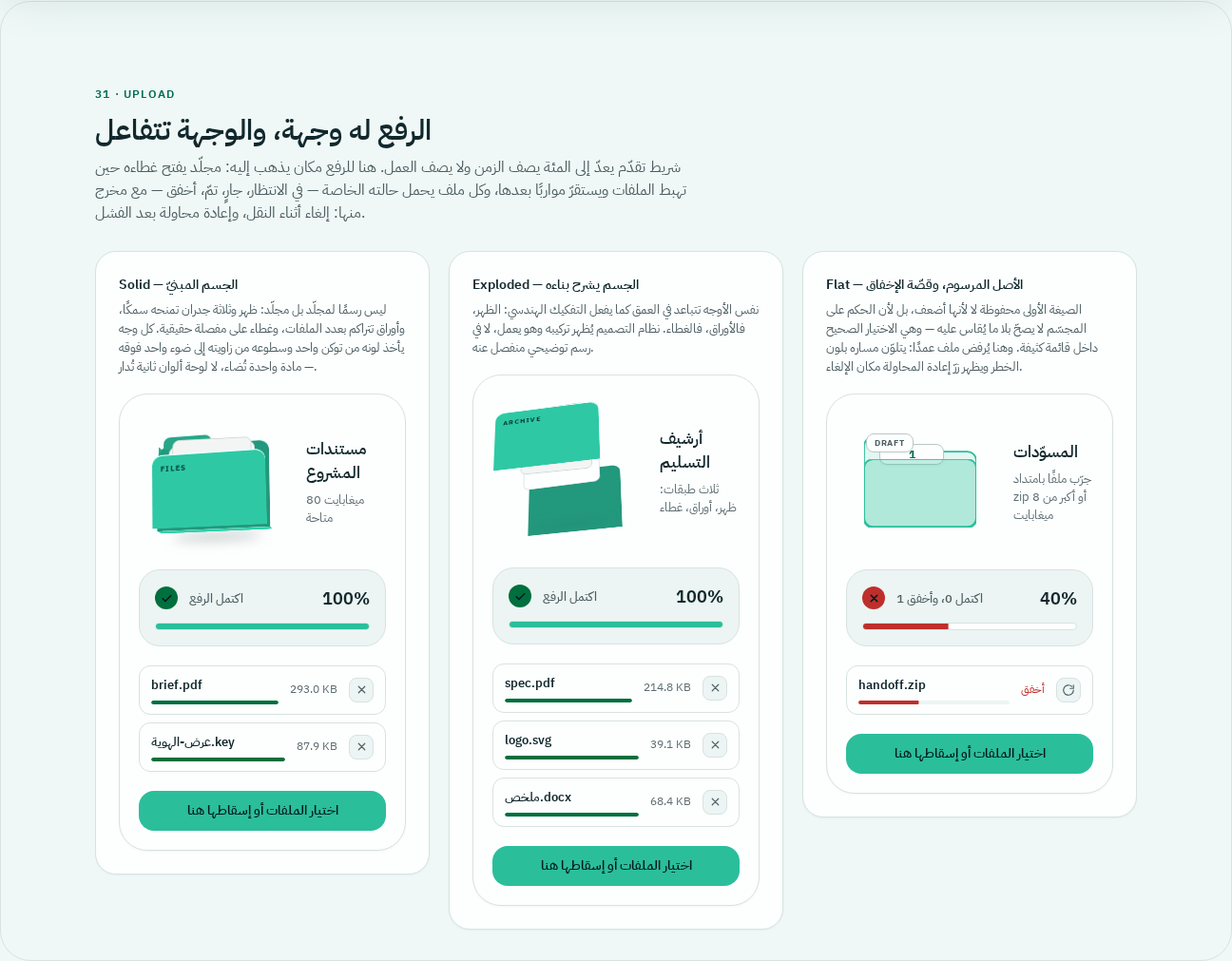
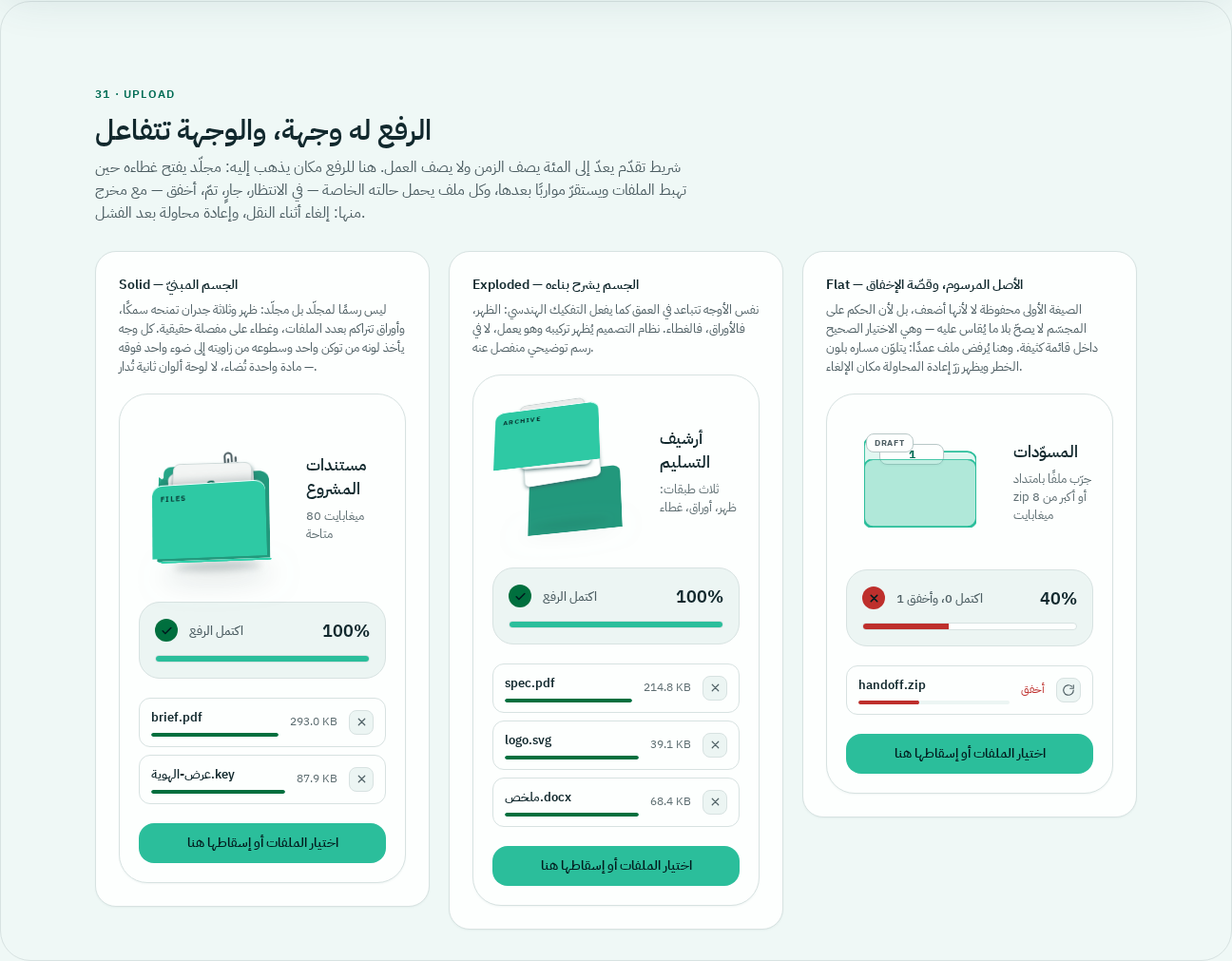
Make visual composition a law, and build the folder to it
The owner supplied twelve references as a visual feed and asked that creativity
and the refusal of slop stop being a mood and become a standing rule.

The feed is not uniform, and reading it is the first part of the law. The travel
journal — photographs sitting in a folder pocket, a paperclip, a stamp, a note —
is the strongest reference in the set: every element is an object with an edge,
a thickness and a shadow in a placed position, and every detail carries
information rather than decorating. The 3D objects contribute a principle rather
than a style. But two of the twelve are the flat corporate illustration family
and a pack of pastel icon tiles, and both are patterns this repository already
scans for and removes. They are named as refused in the law, because a refusal
that isn't written down reads later as an oversight.

The rule that turned out to matter most is one the references cannot teach,
because none of them mirror: their light comes from the upper left and their
shadows fall to the lower right. Nova mirrors with `dir`, and a lateral light
inverts with the object — so the light would come from the right in Arabic and
the left in English. Light is physical, not linguistic. The law therefore puts
the source directly overhead and forbids lateral light in anything that mirrors;
the folder's two side walls carry the same value, and a gate holds them there.

Applied to UploadFolder as the reference implementation:
[…]

Changed region(s): [[0.0926, 0.4293, 0.3395, 0.9199], [0.2469, 0.4599, 0.3086, 0.5519], [0.4321, 0.4599, 0.4938, 0.5213]]

diff --git a/src/madar/components/upload.tsx b/src/madar/components/upload.tsx
@@ -85,8 +85,12 @@ const LID_H = 84;
 const TAB_W = 58;
 const TAB_H = 15;
 
-/* Face brightness is the lighting model: one light, above and slightly behind
-   the camera. The numbers are angles turned into values, not decoration. */
+/* Face brightness is the lighting model, and its direction is a constraint
+   rather than a taste: the light sits *directly above* the object, tilted only
+   toward the camera. Any lateral light would invert when the object mirrors
+   for RTL, and light is physical, not linguistic — it must not follow the
+   reading direction. See design-system/VISUAL-LAW.md §2. The two side walls
+   therefore carry the same value; nothing here is brighter on one side. */
 const LIGHT = {
   back: 0.80,
   tab: 0.88,
@@ -115,14 +119,49 @@ function Face({
   );
 }
 
+/* Unequal by hand, not by loop: three identical angles read as a `for`, three
+   different ones read as someone having put them there. VISUAL-LAW.md §4. */
+const SLIP_TILT = [-3.5, 2.1, -1.2];
+
+/* One paperclip drawn twice: the back copy is clipped to the length that
+   passes behind the leaf, the front copy to the length that passes over it.
+   Their different translateZ does the occluding, so the wire genuinely goes
+   over and under rather than being painted to look as though it does. */
+function Clip({ z, lift, half }: { z: number; lift: number; half: 'front' | 'back' }) {
+  return (
+    <div
+      data-folder-part={`clip-${half}`}
+      className="madar-folder-face"
+      style={{
+        insetInlineStart: W - 56, top: H - LID_H - 16,
+        width: 30, height: 46, background: 'transparent',
+        color: 'var(--text-2)',
+        clipPath: half === 'back' ? 'inset(38% 0 0 0)' : 'inset(0 0 62% 0)',
+        transform: `translateZ(${z}px) translateY(${-lift}px) rotateZ(${SLIP_TILT[0]}deg)`,
+      }}
+    >
+      <svg viewBox="0 0 26 40" width="30" height="46" fill="none" aria-hidden="true">
+        <path
+          d="M18 11v18a5.5 5.5 0 0 1-11 0V9a3.5 3.5 0 0 1 7 0v19a1.8 1.8 0 0 1-3.6 0V12"
+          stroke="currentColor"
+          strokeWidth="2"
+          strokeLinecap="round"
+        />
+      </svg>
+    </div>
+  );
+}
+
 function Folder({
-  open, count, label, variant, tilt,
+  open, count, label, variant, tilt, filed,
 }: {
   open: number;
   count: number;
   label: string;
   variant: FolderVariant;
   tilt: { x: number; y: number };
+  /** True once every transfer has settled — the clip is a state, not a trim. */
+  filed: boolean;
 }) {
   if (variant === 'flat') return <FlatFolder open={open} count={count} label={label} />;
 
@@ -137,23 +176,37 @@ function Folder({
     <div
       aria-hidden="true"
       className="madar-folder-stage"
-      style={{ width: W + 24, height: H + (spread ? 62 : 44), flex: 'none' }}
+      style={{ width: W + 24, height: H + (spread ? 62 : 78), flex: 'none' }}
     >
       <div className="madar-folder-mirror">
         <div
           className="madar-folder-scene"
           style={{
-            width: W, height: H, margin: `${spread ? 40 : 26}px auto 0`,
+            width: W, height: H, margin: `${spread ? 40 : 58}px auto 0`,
             transform: `rotateX(${camX}deg) rotateY(${camY}deg) scale(${spread ? 0.78 : 0.92})`,
           }}
         >
-          {/* the object's weight on the surface below it */}
+          {/* Two of the three shadows the law asks for. Contact is tight and
+              dark where the object meets the surface and gives it weight; cast
+              is wider, softer and lower and gives it height. Both fall straight
+              down, because the light is straight above. VISUAL-LAW.md §3. */}
           <div
+            data-folder-part="cast-shadow"
             className="madar-folder-contact"
             style={{
-              insetInlineStart: 16, top: H + 1, width: W - 32, height: 10,
-              filter: 'blur(7px)',
-              opacity: spread ? 0.08 : 0.24,
+              insetInlineStart: 4, top: H + 6, width: W - 8, height: 18,
+              filter: 'blur(14px)',
+              opacity: spread ? 0.05 : 0.13,
+              transform: `translateZ(-${D}px) scaleX(${1 + open * 0.16})`,
+            }}
+          />
+          <div
+            data-folder-part="contact-shadow"
+            className="madar-folder-contact"
+            style={{
+              insetInlineStart: 16, top: H + 1, width: W - 32, height: 8,
+              filter: 'blur(5px)',
+              opacity: spread ? 0.08 : 0.3,
               transform: `translateZ(-${D}px) scaleX(${1 + open * 0.1})`,
             }}
           />
@@ -238,9 +291,11 @@ function Folder({
                 background: 'var(--surface)',
                 border: '1px solid var(--border)',
                 borderRadius: 'var(--r-xs)',
-                boxShadow: 'var(--shadow-1)',
+                // cast straight down: the light is overhead, so a leaf drops its
+                // shadow onto the leaf behind it, not off to one side
+                boxShadow: '0 3px 6px -2px var(--shadow-color)',
                 filter: `brightness(${1 - i * 0.04})`,
-                transform: `translateZ(${5 + i * 3 + spread * (22 + i * 18)}px) translateY(${-open * (34 + i * 13)}px) rotateZ(${(i % 2 ? 1 : -1) * 1.1}deg)`,
+                transform: `translateZ(${5 + i * 3 + spread * (22 + i * 18)}px) translateY(${-open * (48 + i * 15)}px) rotateZ(${SLIP_TILT[i]}deg)`,
               }}
             />
           ))}
@@ -252,14 +307,46 @@ function Folder({
               style={{
                 insetInlineStart: 15 + (sheets - 1) * 4, top: H - LID_H,
                 width: W - 30 - (sheets - 1) * 8, height: LID_H - 6,
-                background: 'transparent', display: 'grid', placeItems: 'center',
-                transform: `translateZ(${6 + (sheets - 1) * 3 + spread * (22 + (sheets - 1) * 18)}px) translateY(${-open * (34 + (sheets - 1) * 13)}px)`,
-                fontSize: 19, fontWeight: 700, color: 'var(--accent-ink)',
+                background: 'transparent',
+                display: 'grid', justifyItems: 'center', alignItems: 'start',
+                paddingBlockStart: 13,
+                transform: `translateZ(${6 + (sheets - 1) * 3 + spread * (22 + (sheets - 1) * 18)}px) translateY(${-open * (48 + (sheets - 1) * 15)}px) rotateZ(${SLIP_TILT[Math.max(0, sheets - 1)]}deg)`,
+                fontSize: 20, fontWeight: 700, color: 'var(--accent-ink)',
                 fontVariantNumeric: 'tabular-nums',
               }}
             >
               {count}
             </div>
+          )}
+
+          {/* The third shadow: the lid is in front and overhead light does not
+              reach behind it, so the leaves darken where they enter the pocket.
+              This is the joint, and the joint is where objects stop being
+              stickers. VISUAL-LAW.md §3, §5. */}
+          {sheets > 0 && spread === 0 && (
+            <div
+              data-folder-part="occlusion"
+              className="madar-folder-contact"
+              style={{
+                insetInlineStart: 12, top: H - LID_H - 4, width: W - 24, height: 14,
+                borderRadius: 0,
+                filter: 'blur(6px)',
+                opacity: 0.26,
+                transform: `translateZ(${D - 2}px)`,
+              }}
+            />
+          )}
+
+          {/* Filed: the clip appears only once every transfer has settled, so it
+              reports a state rather than trimming the object. Its wire crosses
+              in front of the top leaf and disappears behind it, which is the
+              detail that makes a drawn object read as a real one.
+              VISUAL-LAW.md §5, §8. */}
+          {filed && sheets > 0 && spread === 0 && (
+            <>
+              <Clip z={5 + (sheets - 1) * 3 - 2} lift={open * (48 + (sheets - 1) * 15)} half="back" />
+              <Clip z={5 + (sheets - 1) * 3 + 4} lift={open * (48 + (sheets - 1) * 15)} half="front" />
+            </>
           )}
 
           {/* the lid — hinged at the bottom edge, its angle is the state */}
@@ -575,7 +662,7 @@ export function UploadFolder({
       }}
     >
       <div style={{ display: 'flex', alignItems: 'center', gap: 'var(--sp-5)' }}>
-        <Folder open={lid} count={items.length} label={tabLabel} variant={variant} tilt={tilt} />
+        <Folder open={lid} count={items.length} label={tabLabel} variant={variant} tilt={tilt} filed={!active && !failed && items.length > 0} />
         <div style={{ minWidth: 0 }}>
           <h3 style={{ margin: 0, fontSize: 17, fontWeight: 600, color: 'var(--text)' }}>{title}</h3>
           <p style={{ margin: '6px 0 0', fontSize: 13, color: 'var(--text-3)' }}>{meta}</p>

diff --git a/design-system/VISUAL-LAW.md b/design-system/VISUAL-LAW.md
@@ -1,0 +1,94 @@
+# قانون التكوين البصري في NOVA
+
+هذا الملف قانون، لا اقتراح. كل مجسّم أو أيقونة أو بطاقة تُبنى بعد اليوم تُقاس عليه، وبواباته تُشغَّل مع كل تمريدة (`gates/07-visual-law.md`).
+
+مصدره تغذية بصرية قدّمها مالك المشروع: بورتفوليو Behance، وتطبيق «Daily travel journal»، ومجموعة مجسّمات ثلاثية الأبعاد، ورسوم قطاع الطاقة، وحزمة أيقونات. **ليست كلها صالحة**، والفرز جزء من القانون لا مقدّمة له.
+
+---
+
+## أوّلًا: الفرز — ماذا أخذنا من التغذية، وماذا رفضنا منها
+
+| المرجع | الحكم | السبب |
+|---|---|---|
+| **تطبيق يوميات السفر**: صور في جيب مجلّد، مشبك ورق، ملاحظة لاصقة، طوابع، أعلام | **المرجع الأوّل والأقوى** | كل عنصر فيه **جسم** له حافة وسمك وظلّ في موضعه. والتفاصيل تحمل معلومة: العلم بلد، والملاحظة تعليق المستخدم، والصور محتوى حقيقي |
+| **المجسّمات ثلاثية الأبعاد** (الصاعقة، اللوح الشمسي، البيت) | **مأخوذ في المبدأ لا في الأسلوب** | المبدأ: ضوء واحد، وظلّ مصبوب في اتجاه معلن، وسمك حقيقي. الأسلوب البلاستيكي اللامع يصلح لجسم بطل، ولا يصلح لضابط في واجهة |
+| **بورتفوليو Behance**: بطاقات الخدمات بهيئة مجلّد، خطّ زمني للخبرة | **مأخوذ** — فكرة أن الحاوية تحمل شكل ما تحويه | البطاقة على هيئة مجلّد تقول «هذا ملف» قبل أن يُقرأ عنوانها |
+| **الرندر التقني** (المحوّل بشبكته السلكية) | **مأخوذ للتفكيك فقط** | إظهار البنية فوق الجسم لغة صالحة في نظام تصميم، وقد استُعملت في صيغة `exploded` |
+| **رسوم القطاع المسطّحة** (عدّاد الكهرباء، الشخصية بالقابس) | **مرفوض** | هذه عائلة الرسم الشركاتي المسطّح: بلا سمك، وبلا ظلّ، وبلا زاوية. وهي أحد أوضح تلال الـslop |
+| **حزمة الأيقونات الخمسين**: أقراص باستيلية بتدرّج لكل أيقونة | **مرفوض** | «بلاطات الأيقونات الباستيلية» بند مفهرس في ماسح الـslop عندنا. لونٌ عشوائي لكل أيقونة يقول إن اللون بلا معنى |
+
+**القاعدة المستخلصة من الفرز نفسه:** التغذية البصرية تُقرأ، ولا تُقلَّد. المرجع الذي فيه جسم يُؤخذ، والمرجع الذي فيه شكل مسطّح يُرفض ولو جاء في الحزمة نفسها.
+
+---
+
+## ثانيًا: القانون
+
+### 1. الجسم قبل الشكل
+
+كل عنصر بصري **جسم له حجم**، لا مستطيل ملوّن. الحدّ الأدنى: سمك مرئي، أو حافة تلتقط الضوء، أو تراكب يُظهر أن شيئًا أمام شيء. المستطيل الذي لا يقول أين سطحه وأين حرفه ليس تصميمًا بل حشوًا.
+
+### 2. الضوء من فوق مباشرةً — وهذه ليست ذائقة بل ضرورة
+
+في المراجع يأتي الضوء من أعلى اليسار وتسقط الظلال إلى أسفل اليمين. **لا يصحّ ذلك عندنا.**
+
+نوفا عربية أوّلًا وتنقلب مع `dir`. أي جسم يُعكس بـ`scaleX(-1)` **تنعكس معه إضاءته**، فيصبح الضوء في العربية من اليمين وفي الإنجليزية من اليسار — والضوء ظاهرة فيزيائية لا لغوية، فانقلابه مع لغة الواجهة خطأ لا أسلوب.
+
+> **القانون: مصدر الضوء فوق الجسم مباشرةً، ومائل قليلًا نحو الكاميرا. الظلال تسقط إلى الأسفل. أي إضاءة جانبية ممنوعة في أي مكوّن يُعكس مع الاتجاه.**
+
+### 3. ثلاثة ظلال مختلفة، ولكل واحد وظيفة
+
+الخلط بينها هو ما يجعل الأجسام تبدو ملصقات:
+
+| الظلّ | أين | كيف |
+|---|---|---|
+| **ظلّ التلامُس** | حيث يلمس الجسم السطح | ضيّق، قاتم، قصير الانتشار. يعطي الوزن |
+| **الظلّ المصبوب** | أسفل الجسم في اتجاه الضوء | أطول وأنعم وأخفّ. يعطي الارتفاع |
+| **الانحجاب المحيطي** | في الشقوق والفواصل والملتقيات | خطّ رفيع داكن عند فم الجيب وبين الورقة والورقة. يعطي العمق |
+
+جسم بظلّ واحد ناعم تحته = ملصق. الثلاثة معًا = جسم.
+
+### 4. الزاوية قرار، والحاوية مستقيمة
+
+في المرجع الأقوى كل صورة داخل الجيب مائلة بقدر مختلف، بينما **الجيب نفسه مستقيم**. الميلان يخصّ المحتوى لأنه وُضع باليد؛ والإطار يبقى معياريًّا لأنه بنية. عكسُ ذلك — إطار مائل ومحتوى مستقيم — هو الشكل الأشيع للزينة بلا معنى.
+
+ولا زاويتان متساويتان: `-3.5°`, `+2°`, `-1°` تقرأ كيدٍ وضعتها؛ `2°, 2°, 2°` تقرأ كحلقة `for`.
+
+### 5. التفصيل يعيش عند الحافة والمَفصِل
+
+ما يجعل مرجع يوميات السفر مقنعًا ليس مركز العناصر بل أطرافها: القصّ الأبيض حول الملصق، وسلك المشبك يمرّ فوق الورقة ثم تحتها، وشفة الجيب. **الحافة هي التفصيل**، والمركز يحتمل الفراغ.
+
+### 6. اللون يأتي من المحتوى لا من الخلفية
+
+الأرضية في المراجع محايدة قريبة من الأبيض، وكل اللون في الصور والأعلام والملاحظة الصفراء. هذا يقلب القاعدة الشائعة: **الخلفية لا تُلوَّن لتبدو حيّة، بل تُحيَّد ليظهر المحتوى.**
+
+في نوفا هذا مطابق للقرار القائم: `--nova-canvas` لوحة مسطّحة واحدة، واللون من `--accent` والحالة والمحتوى.
+
+### 7. التكوين مكتمل: لا شيء يطفو وحده
+
+الأجسام تتراكب وتحجب بعضها وتنتمي إلى ترتيب عمق. عنصر واحد معلّق في مركز فراغه المتساوي من كل جهة ليس تكوينًا. ثلاثة أجسام في ثلاثة مستويات عمق تكوين.
+
+### 8. التفصيل مقيَّد بالمعنى
+
+كل تفصيل يُضاف يجيب: **أي معلومة يحمل؟** مشبك الورق في يوميات السفر يقول «مُرفَق». في مجلّد الرفع لا يظهر المشبك إلا حين يكتمل الرفع، فيقول «حُفِظ». مشبك يظهر دائمًا زخرفة، ومشبك يظهر عند حالة معيّنة لغة.
+
+هذا هو الفرق الذي يفصل هذا القانون عن «أضف تفاصيل أكثر»: **التفصيل بلا حالة زينة، والزينة سلوب مهما كان متقنًا.**
+
+---
+
+## ثالثًا: ما يظلّ ممنوعًا مهما بدا جميلًا
+
+- تدرّجات كخلفية جوّية (المجموعة 06)
+- نصّ بتدرّج مقصوص (02)
+- بلاطات أيقونات باستيلية، لون لكل أيقونة بلا معنى (25)
+- زجاج كافتراض لا كقرار (19)
+- ظلّ ضخم بلا مصدر ضوء يبرّره (20)
+- رسم مسطّح بلا سمك ولا ظلّ ولا زاوية — وهو ما رُفض من التغذية نفسها
+- أي حلقة حركة لانهائية على مكوّن منتج (26 و«الطفو الدائم»)
+
+---
+
+## رابعًا: التطبيق المرجعي
+
+`UploadFolder` في `src/madar/components/upload.tsx` هو المثال المطبَّق: جسم بسمك حقيقي، وضوء من فوق مباشرةً، وثلاثة ظلال بوظائف مختلفة، وقصاصات مائلة بزوايا غير متساوية داخل جيب مستقيم، ومشبك لا يظهر إلا عند الاكتمال.
+
+البوابات في `gates/07-visual-law.md` تُشغَّل على القانون نفسه لا على الوصف.

diff --git a/gates/07-visual-law.md b/gates/07-visual-law.md
@@ -1,0 +1,54 @@
+# Gates: the visual composition law
+
+The owner supplied twelve references as a visual feed and asked that creativity
+and the refusal of slop become a standing law rather than a mood. The feed is
+not uniform: some of it is objects with volume, angle and placed shadow, and
+some of it is exactly the flat corporate illustration and pastel icon-tile
+families this repository already scans for. Reading the feed is part of the law,
+so these gates cover both the written rule and its reference implementation in
+`UploadFolder`.
+
+- [x] G1: The law is written down, including the part where references were rejected
+  CHECK: node -e "const d=require('fs').readFileSync('design-system/VISUAL-LAW.md','utf8');const need=['الجسم قبل الشكل','ظلّ التلامُس','الظلّ المصبوب','الانحجاب المحيطي','الزاوية قرار','مرفوض'];const miss=need.filter(n=>!d.includes(n));console.log(miss.length?'LAW_INCOMPLETE '+miss.join(','):'LAW_WRITTEN')"
+  EXPECT: LAW_WRITTEN
+  EVIDENCE: LAW_WRITTEN
+
+- [x] G2: No lateral light — the two side walls carry the same value, so mirroring for RTL cannot invert the lighting
+  CHECK: node -e "const s=require('fs').readFileSync('src/madar/components/upload.tsx','utf8');const sides=[...s.matchAll(/brightness=\{LIGHT\.(\w+)\}/g)].map(m=>m[1]).filter(n=>n==='sideWall');const lit=/const LIGHT = \{[\s\S]*?\};/.exec(s)[0];const one=/sideWall:\s*([0-9.]+)/.exec(lit)[1];console.log(sides.length===2&&one?'LIGHT_OVERHEAD_'+one:'LATERAL_LIGHT')"
+  EXPECT: /^LIGHT_OVERHEAD_/m
+  EVIDENCE: LIGHT_OVERHEAD_0.92
+
+- [x] G3: All three shadow roles are present and distinct — contact, cast, and occlusion at the joint
+  CHECK: node -e "const s=require('fs').readFileSync('src/madar/components/upload.tsx','utf8');const need=['data-folder-part=\"contact-shadow\"','data-folder-part=\"cast-shadow\"','data-folder-part=\"occlusion\"'];const miss=need.filter(n=>!s.includes(n));console.log(miss.length?'SHADOWS_MISSING '+miss.join(','):'THREE_SHADOWS')"
+  EXPECT: THREE_SHADOWS
+  EVIDENCE: THREE_SHADOWS
+
+- [x] G4: The slips are placed by hand, not by loop — no two angles are equal and none is zero
+  CHECK: node -e "const s=require('fs').readFileSync('src/madar/components/upload.tsx','utf8');const a=JSON.parse(/const SLIP_TILT = (\[[^\]]*\])/.exec(s)[1]);const ok=a.length>=3&&new Set(a).size===a.length&&a.every(v=>v!==0);console.log(ok?'ANGLES_UNEQUAL '+a.join(','):'ANGLES_MECHANICAL '+a.join(','))"
+  EXPECT: /^ANGLES_UNEQUAL/m
+  EVIDENCE: ANGLES_UNEQUAL -3.5,2.1,-1.2
+
+- [x] G5: The clip reports a state rather than trimming the object — it renders only once the work is filed
+  CHECK: node -e "const s=require('fs').readFileSync('src/madar/components/upload.tsx','utf8');const gated=/\{filed && sheets > 0 && spread === 0 && \(/.test(s);const wired=/filed=\{!active && !failed && items\.length > 0\}/.test(s);console.log(gated&&wired?'CLIP_IS_STATE':'CLIP_IS_ORNAMENT')"
+  EXPECT: CLIP_IS_STATE
+  EVIDENCE: CLIP_IS_STATE
+
+- [x] G6: The wire genuinely passes over and under, rather than being drawn to look as though it does
+  CHECK: node -e 'const s=require("fs").readFileSync("src/madar/components/upload.tsx","utf8");const halves=/half="back"/.test(s)&&/half="front"/.test(s);const split=/clipPath: half === .back./.test(s);const depth=/translateZ\(\$\{z\}px\)/.test(s)&&/z=\{[^}]*-\s*2\}/.test(s)&&/z=\{[^}]*\+\s*4\}/.test(s);console.log(halves&&split&&depth?"OCCLUDED_BY_DEPTH":"PAINTED_TO_LOOK_LAYERED "+[halves,split,depth].join())'
+  EXPECT: OCCLUDED_BY_DEPTH
+  EVIDENCE: OCCLUDED_BY_DEPTH
+
+- [x] G7: The rejected families from the feed are named, so the refusal is a decision on record and not an omission
+  CHECK: node -e "const d=require('fs').readFileSync('design-system/VISUAL-LAW.md','utf8');const need=['رسوم القطاع المسطّحة','حزمة الأيقونات','باستيلية'];const miss=need.filter(n=>!d.includes(n));console.log(miss.length?'REFUSAL_UNRECORDED '+miss.join(','):'REFUSAL_RECORDED')"
+  EXPECT: REFUSAL_RECORDED
+  EVIDENCE: REFUSAL_RECORDED
+
+- [x] G8: The added detail costs nothing in behaviour: the flow, axe, contrast and overflow all stay green
+  CHECK: node tools/qa/upload-qa.mjs 2>&1 | head -2; node tools/qa/madar-qa.mjs 2>&1 | grep -E 'CONTRAST|AXE|OVERFLOW'
+  EXPECT: /AXE_VIOLATIONS_MADAR=0/m
+  EVIDENCE: OVERFLOW=none | AXE_VIOLATIONS_MADAR=0
+
+- [x] G9: The component still declares no raw color, so the new material rides the seven packs
+  CHECK: node -e "const s=require('fs').readFileSync('src/madar/components/upload.tsx','utf8');const raw=[...s.matchAll(/#[0-9a-fA-F]{3,8}\b|\b(?:rgba?|hsla?|oklch)\(/g)].map(m=>m[0]);console.log(raw.length?'RAW_COLOR '+[...new Set(raw)].join(','):'TOKENS_ONLY')"
+  EXPECT: TOKENS_ONLY
+  EVIDENCE: TOKENS_ONLY

diff --git a/AGENTS.md b/AGENTS.md
@@ -9,7 +9,8 @@ Apply these rules to every request that changes how NOVA looks, feels, moves, or
 3. Read `design-system/nova-ui/MASTER.md`.
 4. Read `design-system/nova-design-os/DESIGN.md` and the specialized files relevant to the task.
 5. For anything touching the Madar library, read `design-system/madar/GUIDE.md` first, then `design-system/madar/design.md`.
-6. If a page override exists under `design-system/nova-ui/pages/`, it overrides the master only for that page.
+6. Before drawing any object, icon, illustration or card material, read `design-system/VISUAL-LAW.md`. It is a law, not a guide: volume before shape, light from directly overhead because a lateral light inverts when the object mirrors for RTL, three shadows with three different jobs, unequal angles inside a straight container, and no detail that does not carry a state. Its gates run in `gates/07-visual-law.md`.
+7. If a page override exists under `design-system/nova-ui/pages/`, it overrides the master only for that page.
 7. Inspect the current React implementation, legacy HTML, and tokens before proposing a redesign.
 
 ## Required Design Workflow
